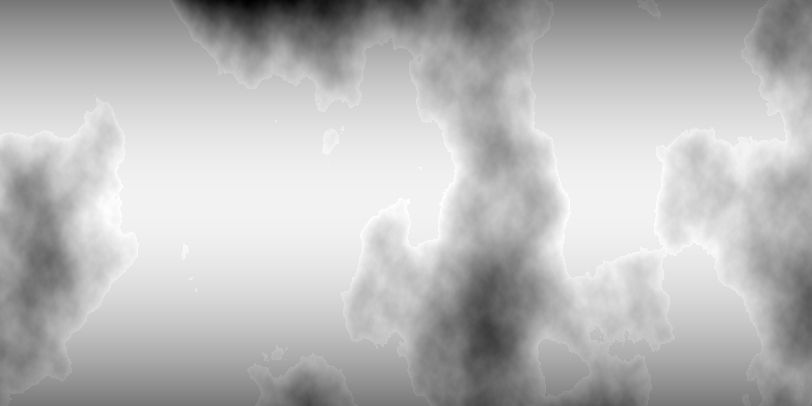
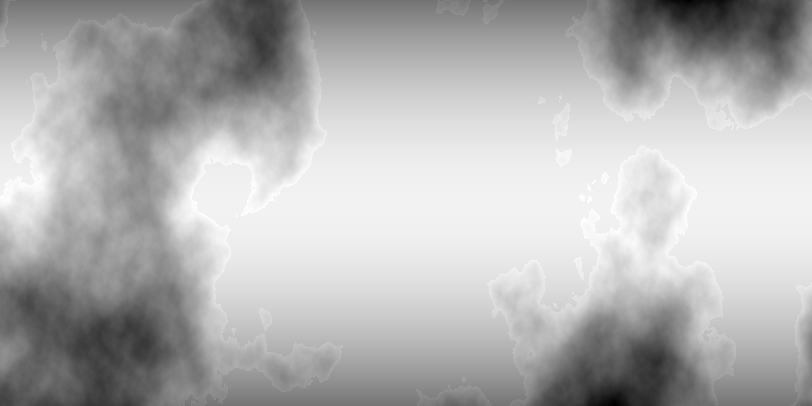
feat: seeded maps

diff --git a/src/World.cpp b/src/World.cpp
@@ -3,12 +3,24 @@
 #include "../SimplexNoise/src/SimplexNoise.h"
 #include <cmath>
 #include <limits>
+#include <random>
+#include <iostream>
 
 namespace sim {
 	
 	void World::GenerateNewMap(){
+		GenerateSeed();
 		GenerateElevation();
 		GenerateTemperature();
+	}
+
+	World::SeedType World::getSeed(){
+		return seed;
+	}
+
+	void World::GenerateSeed(){
+		std::random_device rd;
+		seed = std::uniform_real_distribution<SeedType>(-10000, 10000)(rd);
 	}
 
 	void World::GenerateElevation(){
@@ -18,6 +30,7 @@ namespace sim {
 		float offset_z  = 0.05f;
 		float lacunarity    = 1.99f;
 		float persistance   = 0.5f;
+		
 
 		const SimplexNoise simplex(0.1/scale, 0.5f, lacunarity, persistance);
 		const int octaves = static_cast<int>(5 + std::log(scale));
@@ -30,7 +43,7 @@ namespace sim {
 			for(unsigned i = 0; i < WIDTH; ++i){
 				const float x = static_cast<float>(i - WIDTH/2.f + offset_x*scale);
 				
-				const float noise = simplex.fractal(octaves, x, y) + offset_z;
+				const float noise = simplex.fractal(octaves, x + seed, y + seed) + offset_z;
 				m_elevation_map[j][i] = noise;
 			}
 		}
@@ -41,6 +54,9 @@ namespace sim {
 			for(unsigned i = 0; i < WIDTH; ++i){
 				auto grey = (m_elevation_map[j][i] + 1.f)/2.f;
 				psx::img::Color greyScale(grey,grey,grey);
+				if(grey < 0.5f){
+					greyScale.r = greyScale.g = 0.f;
+				}
 				psx::img::SetPixelOnSurface(surface, i, j, greyScale.ToUint32());
 			}
 		}
@@ -50,6 +66,7 @@ namespace sim {
 	}
 
 	void World::GenerateTemperature(){
+
 		const auto HEIGHT = m_temperature_map.size();
 		const auto WIDTH = m_temperature_map[0].size();
 
@@ -58,6 +75,7 @@ namespace sim {
 	
 		float mint = std::numeric_limits<float>::max();
 		float maxt = std::numeric_limits<float>::lowest();
+
 		for(unsigned j = 0; j < HEIGHT; ++j){
 			auto distance_from_equator = DistanceFromEquatorNormalized(j);
 			auto distance_from_equator_squared = distance_from_equator * distance_from_equator;
@@ -78,6 +96,7 @@ namespace sim {
 			}	
 		}
 
+		std::cout << maxt << " " << mint << std::endl;
 		auto surface = psx::img::CreateBlankSurface(WIDTH, HEIGHT);
 
 		for(unsigned j = 0; j < HEIGHT; ++j){

diff --git a/src/World.h b/src/World.h
@@ -12,15 +12,23 @@ namespace sim {
     class World{
         public:
             using Map = std::array<std::array<float, 812>, 406>;
+			using SeedType = float;
+            
+			void GenerateNewMap();
+			SeedType getSeed();
 
-            void GenerateNewMap();
         private:
+
+			SeedType seed;
+
             Map m_elevation_map;
             Map m_temperature_map;
             Map m_circulation_map;
             Map m_evapotranspiration_map;
             Map m_humidity_map;
             Map m_precipitation_map;
+
+			void GenerateSeed();
 
             void GenerateElevation();
             void GenerateTemperature();
